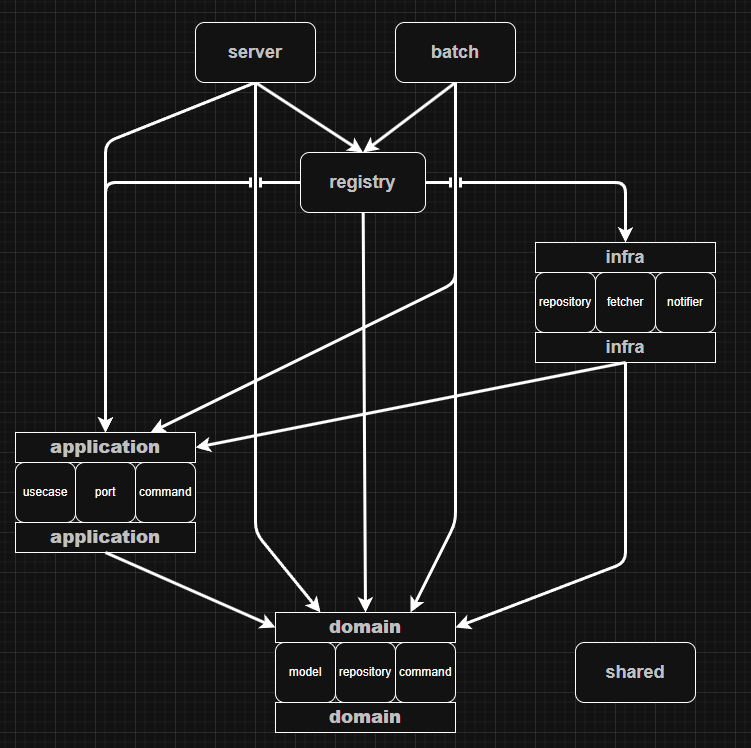
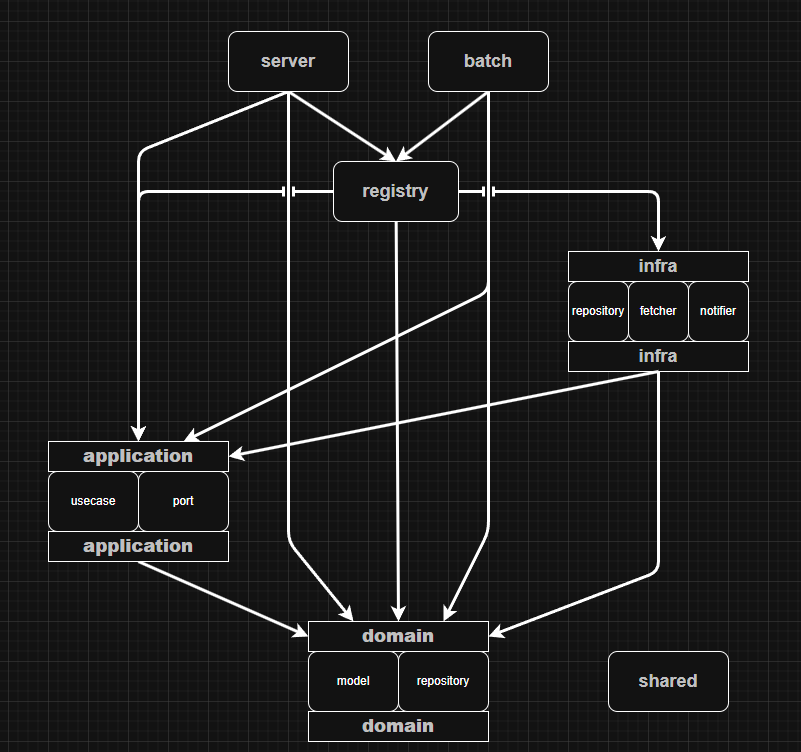
commandサブモジュール廃止 & ドメイン生成ルール厳密化

Changed region(s): [[0.0306, 0.0307, 0.9494, 0.984], [0.7656, 0.861, 0.9188, 0.9532], [0.3981, 0.0307, 0.4288, 0.0615]]

diff --git a/infra/src/repository/manga/mod.rs b/infra/src/repository/manga/mod.rs
@@ -1,9 +1,10 @@
 use anyhow::{Result, anyhow};
 use async_trait::async_trait;
 use derive_new::new;
-use domain::{
-    command::{create_manga::CreateManga, delete_manga::DeleteManga, update_manga::UpdateManga},
-    manga::{Manga, portal::manga_url::MangaUrl, repository::MangaRepository},
+use domain::manga::{
+    Manga,
+    portal::manga_url::MangaUrl,
+    repository::{CreateManga, DeleteManga, MangaRepository, UpdateManga},
 };
 
 use crate::repository::{
@@ -126,8 +127,8 @@ mod tests {
         let portal_kind = PortalKind::KadoComi;
         let portal = MangaPortal::new(portal_kind.clone(), crawl_url.clone(), public_url.clone())?;
         let create_command = CreateManga {
-            title: domain::manga::MangaTitle::new("Test Manga".to_string()),
-            short_title: domain::manga::MangaShortTitle::new("Test".to_string()),
+            title: domain::manga::MangaTitle::new("Test Manga".to_string())?,
+            short_title: domain::manga::MangaShortTitle::new("Test".to_string())?,
             portal,
         };
 
@@ -184,12 +185,12 @@ mod tests {
 
         let update_command = UpdateManga {
             manga_id: mangas[0].id.clone(),
-            title: domain::manga::MangaTitle::new(updated_title.clone()),
-            short_title: domain::manga::MangaShortTitle::new(updated_short_title.clone()),
+            title: domain::manga::MangaTitle::new(updated_title.clone())?,
+            short_title: domain::manga::MangaShortTitle::new(updated_short_title.clone())?,
             portal,
             episode: Some(domain::manga::episode::MangaEpisode::new(
                 updated_episode.clone(),
-            )),
+            )?),
         };
 
         repo.update_manga(update_command).await?;

diff --git a/server/src/model/manga.rs b/server/src/model/manga.rs
@@ -1,10 +1,8 @@
 use derive_new::new;
-use domain::{
-    command::{CreateManga, UpdateManga},
-    manga::{
-        Manga, MangaEpisode, MangaId, MangaShortTitle, MangaTitle, portal::MangaPortal,
-        portal::manga_url::MangaUrl,
-    },
+use domain::manga::{
+    Manga, MangaEpisode, MangaId, MangaShortTitle, MangaTitle,
+    portal::{MangaPortal, manga_url::MangaUrl},
+    repository::{CreateManga, UpdateManga},
 };
 use serde::{Deserialize, Serialize};
 
@@ -27,8 +25,8 @@ impl TryFrom<CreateMangaRequest> for CreateManga {
         let public_url = req.public_url.parse()?;
         let portal = MangaPortal::new(portal_kind, crawl_url, public_url)?;
         Ok(CreateManga {
-            title: MangaTitle::new(req.title),
-            short_title: MangaShortTitle::new(req.short_title),
+            title: MangaTitle::new(req.title)?,
+            short_title: MangaShortTitle::new(req.short_title)?,
             portal,
         })
     }
@@ -65,9 +63,9 @@ impl TryFrom<UpdateMangaRequestWithId> for UpdateManga {
             },
         ) = req_with_id;
         let portal_kind = portal_kind.parse()?;
-        let title = MangaTitle::new(title);
-        let short_title = MangaShortTitle::new(short_title);
-        let episode = episode.map(MangaEpisode::new);
+        let title = MangaTitle::new(title)?;
+        let short_title = MangaShortTitle::new(short_title)?;
+        let episode = episode.map(MangaEpisode::new).transpose()?;
         let crawl_url = crawl_url.parse()?;
         let public_url = public_url.parse()?;
         let portal = MangaPortal::new(portal_kind, crawl_url, public_url)?;

diff --git a/domain/src/manga/repository/mod.rs b/domain/src/manga/repository/mod.rs
@@ -1,9 +1,8 @@
 use anyhow::Result;
 use async_trait::async_trait;
 
-use crate::{
-    command::{create_manga::CreateManga, delete_manga::DeleteManga, update_manga::UpdateManga},
-    manga::Manga,
+use crate::manga::{
+    Manga, MangaEpisode, MangaId, MangaShortTitle, MangaTitle, portal::MangaPortal,
 };
 
 #[async_trait]
@@ -12,4 +11,43 @@ pub trait MangaRepository: Send + Sync {
     async fn update_manga(&self, command: UpdateManga) -> Result<()>;
     async fn delete_manga(&self, command: DeleteManga) -> Result<()>;
     async fn find_all(&self) -> Result<Vec<Manga>>;
+}
+
+#[derive(Debug)]
+pub struct CreateManga {
+    pub title: MangaTitle,
+    pub short_title: MangaShortTitle,
+    pub portal: MangaPortal,
+}
+
+#[derive(Debug)]
+pub struct DeleteManga {
+    pub manga_id: MangaId,
+}
+
+impl From<MangaId> for DeleteManga {
+    fn from(manga_id: MangaId) -> Self {
+        DeleteManga { manga_id }
+    }
+}
+
+#[derive(Debug)]
+pub struct UpdateManga {
+    pub manga_id: MangaId,
+    pub title: MangaTitle,
+    pub short_title: MangaShortTitle,
+    pub portal: MangaPortal,
+    pub episode: Option<MangaEpisode>,
+}
+
+impl From<Manga> for UpdateManga {
+    fn from(manga: Manga) -> Self {
+        UpdateManga {
+            manga_id: manga.id,
+            title: manga.title,
+            short_title: manga.short_title,
+            episode: manga.episode,
+            portal: manga.portal,
+        }
+    }
 }

diff --git a/infra/src/repository/manga/model/mod.rs b/infra/src/repository/manga/model/mod.rs
@@ -19,8 +19,8 @@ impl TryFrom<MangaRow> for domain::manga::Manga {
 
     fn try_from(row: MangaRow) -> Result<Self, Self::Error> {
         let id = domain::manga::id::MangaId::from(row.manga_id);
-        let title = domain::manga::MangaTitle::new(row.title);
-        let short_title = domain::manga::MangaShortTitle::new(row.short_title);
+        let title = domain::manga::MangaTitle::new(row.title)?;
+        let short_title = domain::manga::MangaShortTitle::new(row.short_title)?;
         // Todo: 他にもエラーなところがあったらまとめて教えてあげたい
         let crawl_url = url::Url::parse(&row.crawl_url)
             .map_err(|e| anyhow::anyhow!("Failed to parse URL: {}", e))?;
@@ -29,7 +29,10 @@ impl TryFrom<MangaRow> for domain::manga::Manga {
         let portal_kind = PortalKind::from_str(&row.portal_kind)
             .map_err(|e| anyhow::anyhow!("Failed to parse PortalKind: {}", e))?;
         let portal = MangaPortal::new(portal_kind, crawl_url, public_url)?;
-        let episode = row.episode.map(domain::manga::episode::MangaEpisode::new);
+        let episode = row
+            .episode
+            .map(domain::manga::episode::MangaEpisode::new)
+            .transpose()?;
 
         Ok(domain::manga::Manga {
             id,

diff --git a/infra/src/fetcher/portal_kind/jump_plus.rs b/infra/src/fetcher/portal_kind/jump_plus.rs
@@ -1,5 +1,5 @@
 use anyhow::Result;
-use application::command::FetchLatestEpCommand;
+use application::port::latest_episode_fetcher::FetchLatestEpCommand;
 use domain::manga::MangaEpisode;
 use thirtyfour::WebDriver;
 
@@ -40,12 +40,12 @@ impl EpCrawler for JumpPlusCrawler {
         let channel = rss::Channel::read_from(body.as_bytes())?;
         if let Some(first_item) = channel.items().first() {
             if let Some(title) = first_item.title() {
-                return Ok(MangaEpisode::new(title.to_string()));
+                Ok(MangaEpisode::new(title.to_string())?)
             } else {
-                return Err(anyhow::anyhow!("No title found in the first RSS item"));
+                Err(anyhow::anyhow!("No title found in the first RSS item"))
             }
         } else {
-            return Err(anyhow::anyhow!("No items found in the RSS feed"));
+            Err(anyhow::anyhow!("No items found in the RSS feed"))
         }
     }
 }

diff --git a/application/src/port/latest_episode_fetcher.rs b/application/src/port/latest_episode_fetcher.rs
@@ -1,10 +1,26 @@
 use anyhow::Result;
 use async_trait::async_trait;
-use domain::manga::MangaEpisode;
-
-use crate::command::FetchLatestEpCommand;
+use domain::manga::{
+    Manga, MangaEpisode,
+    portal::{manga_url::MangaUrl, portal_kind::PortalKind},
+};
 
 #[async_trait]
 pub trait LatestEpisodeFetcher: Send + Sync {
     async fn fetch_latest_episode(&self, command: FetchLatestEpCommand) -> Result<MangaEpisode>;
+}
+
+#[derive(Debug)]
+pub struct FetchLatestEpCommand {
+    pub crawl_url: url::Url,
+    pub portal_kind: PortalKind,
+}
+
+impl From<Manga> for FetchLatestEpCommand {
+    fn from(manga: Manga) -> Self {
+        FetchLatestEpCommand {
+            crawl_url: manga.portal.get_crawl_url().clone(),
+            portal_kind: manga.portal.kind(),
+        }
+    }
 }

diff --git a/infra/src/fetcher/portal_kind/web_ace.rs b/infra/src/fetcher/portal_kind/web_ace.rs
@@ -1,5 +1,5 @@
 use anyhow::Result;
-use application::command::FetchLatestEpCommand;
+use application::port::latest_episode_fetcher::FetchLatestEpCommand;
 use domain::manga::MangaEpisode;
 use reqwest::Client;
 use thirtyfour::WebDriver;
@@ -48,7 +48,7 @@ impl EpCrawler for WebAceEpCrawler {
         let channel = rss::Channel::read_from(body.as_bytes())?;
         if let Some(first_item) = channel.items().first() {
             if let Some(title) = first_item.title() {
-                Ok(MangaEpisode::new(title.to_string()))
+                Ok(MangaEpisode::new(title.to_string())?)
             } else {
                 Err(anyhow::anyhow!("No title found in the first RSS item"))
             }

diff --git a/infra/src/fetcher/portal_kind/kimi_comi.rs b/infra/src/fetcher/portal_kind/kimi_comi.rs
@@ -1,5 +1,5 @@
 use anyhow::Result;
-use application::command::FetchLatestEpCommand;
+use application::port::latest_episode_fetcher::FetchLatestEpCommand;
 use domain::manga::MangaEpisode;
 use thirtyfour::WebDriver;
 
@@ -40,7 +40,7 @@ impl EpCrawler for KimiComiEpCrawler {
         let channel = rss::Channel::read_from(body.as_bytes())?;
         if let Some(first_item) = channel.items().first() {
             if let Some(title) = first_item.title() {
-                Ok(MangaEpisode::new(title.to_string()))
+                Ok(MangaEpisode::new(title.to_string())?)
             } else {
                 Err(anyhow::anyhow!("No title found in the first RSS item"))
             }

diff --git a/infra/src/fetcher/portal_kind/tonarino_yj.rs b/infra/src/fetcher/portal_kind/tonarino_yj.rs
@@ -1,5 +1,5 @@
 use anyhow::Result;
-use application::command::FetchLatestEpCommand;
+use application::port::latest_episode_fetcher::FetchLatestEpCommand;
 use domain::manga::MangaEpisode;
 use thirtyfour::WebDriver;
 
@@ -40,7 +40,7 @@ impl EpCrawler for TonarinoYJCrawler {
         let channel = rss::Channel::read_from(body.as_bytes())?;
         if let Some(first_item) = channel.items().first() {
             if let Some(title) = first_item.title() {
-                Ok(MangaEpisode::new(title.to_string()))
+                Ok(MangaEpisode::new(title.to_string())?)
             } else {
                 Err(anyhow::anyhow!("No title found in the first RSS item"))
             }

diff --git a/infra/src/fetcher/portal_kind/comic_days.rs b/infra/src/fetcher/portal_kind/comic_days.rs
@@ -1,5 +1,5 @@
 use anyhow::Result;
-use application::command::FetchLatestEpCommand;
+use application::port::latest_episode_fetcher::FetchLatestEpCommand;
 use domain::manga::MangaEpisode;
 use thirtyfour::WebDriver;
 
@@ -41,7 +41,7 @@ impl EpCrawler for ComicDaysCrawler {
         let channel = rss::Channel::read_from(body.as_bytes())?;
         if let Some(first_item) = channel.items().first() {
             if let Some(title) = first_item.title() {
-                Ok(MangaEpisode::new(title.to_string()))
+                Ok(MangaEpisode::new(title.to_string())?)
             } else {
                 Err(anyhow::anyhow!("No title found in the first RSS item"))
             }

diff --git a/infra/src/fetcher/portal_kind/heros_web.rs b/infra/src/fetcher/portal_kind/heros_web.rs
@@ -1,5 +1,5 @@
 use anyhow::Result;
-use application::command::FetchLatestEpCommand;
+use application::port::latest_episode_fetcher::FetchLatestEpCommand;
 use domain::manga::MangaEpisode;
 use thirtyfour::WebDriver;
 
@@ -42,7 +42,7 @@ impl EpCrawler for HerosWebCrawler {
         let channel = rss::Channel::read_from(body.as_bytes())?;
         if let Some(first_item) = channel.items().first() {
             if let Some(title) = first_item.title() {
-                Ok(MangaEpisode::new(title.to_string()))
+                Ok(MangaEpisode::new(title.to_string())?)
             } else {
                 Err(anyhow::anyhow!("No title found in the first RSS item"))
             }

diff --git a/infra/src/fetcher/portal_kind/comic_zenon.rs b/infra/src/fetcher/portal_kind/comic_zenon.rs
@@ -1,5 +1,5 @@
 use anyhow::Result;
-use application::command::FetchLatestEpCommand;
+use application::port::latest_episode_fetcher::FetchLatestEpCommand;
 use domain::manga::MangaEpisode;
 
 pub struct ComicDaysCrawler {
@@ -36,7 +36,7 @@ impl ComicDaysCrawler {
         let channel = rss::Channel::read_from(body.as_bytes())?;
         if let Some(first_item) = channel.items().first() {
             if let Some(title) = first_item.title() {
-                Ok(MangaEpisode::new(title.to_string()))
+                Ok(MangaEpisode::new(title.to_string())?)
             } else {
                 Err(anyhow::anyhow!("No title found in the first RSS item"))
             }
